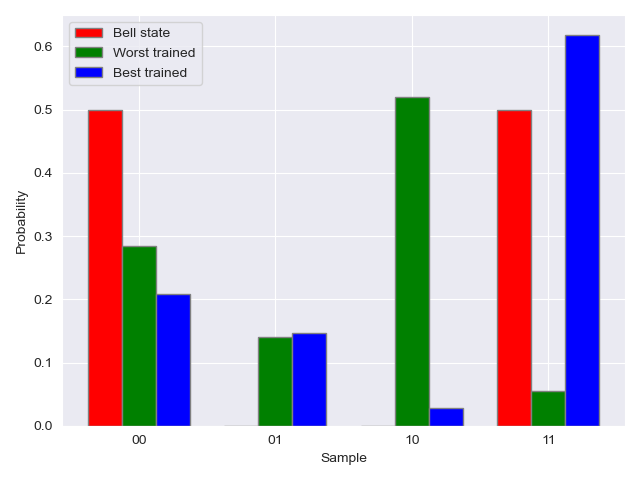
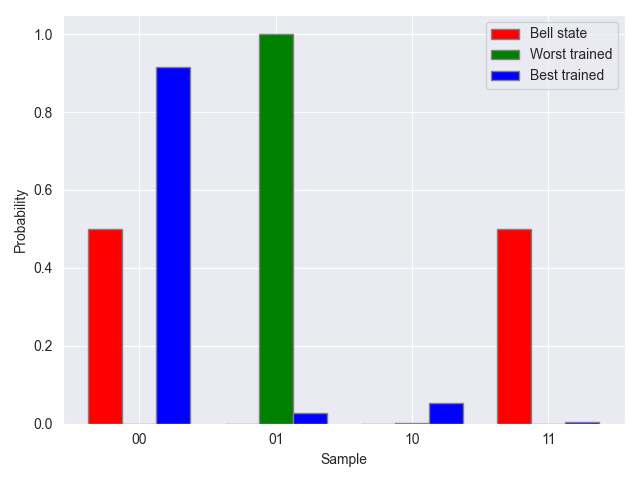
working on it

diff --git a/varQITE.py b/varQITE.py
@@ -482,6 +482,7 @@ class varQITE:
                             print('-----------------')
                         
                     else:
+                        """
                         I=np.eye(A_mat2.shape[1])
                         regr_cv_der = RidgeCV(alphas= np.logspace(-4, 4))
                         y_target=dC_vec-dA_mat@omega_derivative_temp
@@ -490,6 +491,10 @@ class varQITE:
                         #TODO: Add try/catch statement with inv/pinv?
                         
                         w_dtheta_dt=np.linalg.inv(A_mat2.T @ A_mat2 + model_cv_der.alpha_*I) @ A_mat2.T @ y_target
+                        """
+                        clf_d = Ridge(alpha=self.alpha)
+                        clf_d.fit(A_mat2, C_vec2)
+                        w_dtheta_dt=clf_d.coef_
 
                     self.dwdth[i][self.rot_indexes]+=w_dtheta_dt*self.time_step
                     #print(f'w_dtheta: {w_dtheta_dt}')

diff --git a/main.py b/main.py
@@ -376,7 +376,7 @@ def multiple_simulations(n_sims, ansatz2, epochs, target_data, l_r, steps):
     saved_error=np.zeros((n_sims, epochs))
     
     qbm_list=[]
-    np.random.seed(2022)
+    np.random.seed(123)
 
     for i in range(n_sims):
         print(f'Seed: {i} of {n_sims}')
@@ -466,7 +466,7 @@ def multiple_simulations(n_sims, ansatz2, epochs, target_data, l_r, steps):
     plt.savefig(str(l_r*1000)+'_all.png')
 
     return
-#multiple_simulations(4, ansatz2, 9, p_data2, l_r=0.1, steps=10)
+multiple_simulations(4, ansatz2, 9, p_data2, l_r=0.1, steps=10)
 #exit()
 #multiple_simulations(10, ansatz2, 50, p_data2, l_r=0.1, steps=10)
 #multiple_simulations(3, ansatz2, 20, p_data2, l_r=0.01, steps=10)
@@ -622,7 +622,7 @@ def plot_fidelity(n_steps, name=None):
 
     return
 
-plot_fidelity(10, 'fidelity_H1_H2')
+#plot_fidelity(10)#, 'fidelity_H1_H2')
 
 
 def find_best_alpha(n_steps, alpha_space, name=None):
